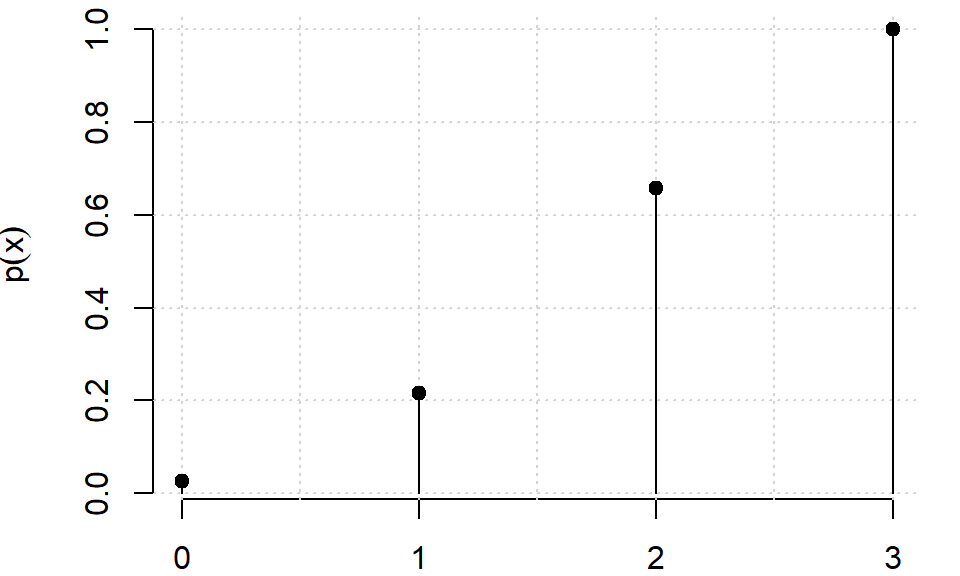
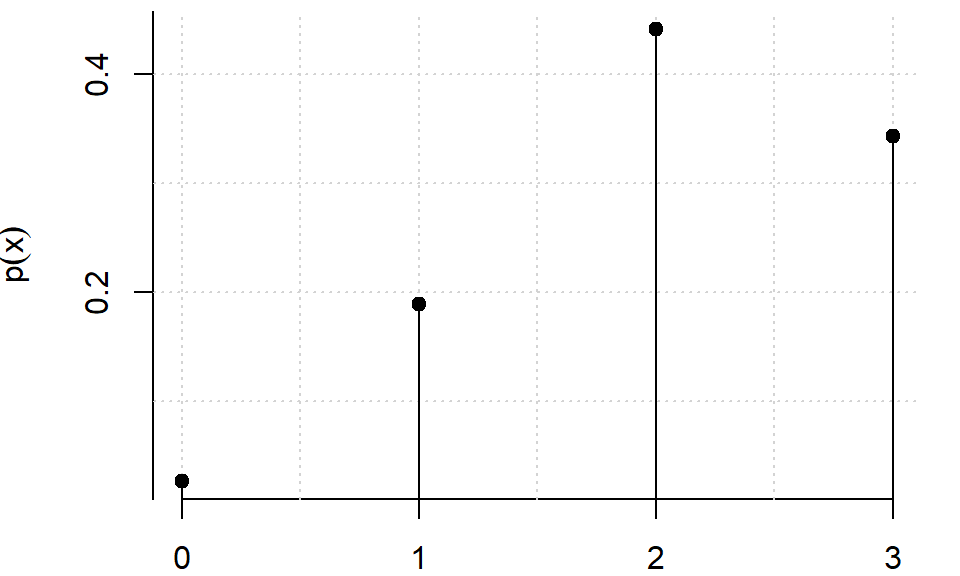
Upload Tema 4

diff --git a/materials/EPE/slides/Tema4_presentacion.html b/materials/EPE/slides/Tema4_presentacion.html
@@ -408,7 +408,7 @@ F(x) = P(X\leq x)=P_X((-\infty,x]) = P(X^{-1}((-\infty, x]))= P(\{\omega \in \Om
 </div>
 </div><div class="column" style="width:75%;">
 <p>O autobús da liña 8 pasa por unha determinada parada cada quince minutos ao longo do día. Chego á parada nun momento aleatorio.</p>
-<p>Sexa <span class="math inline">\(X=\text{Tempo que teño que esperar a que chegue o autobús da liña 8}\)</span></p>
+<p><span class="math inline">\(X=\text{Tempo que teño que esperar a que chegue o autobús da liña 8}\)</span></p>
 <p><span class="math display">\[
 F(x)=P(X \leq x)=
 \begin{cases}
